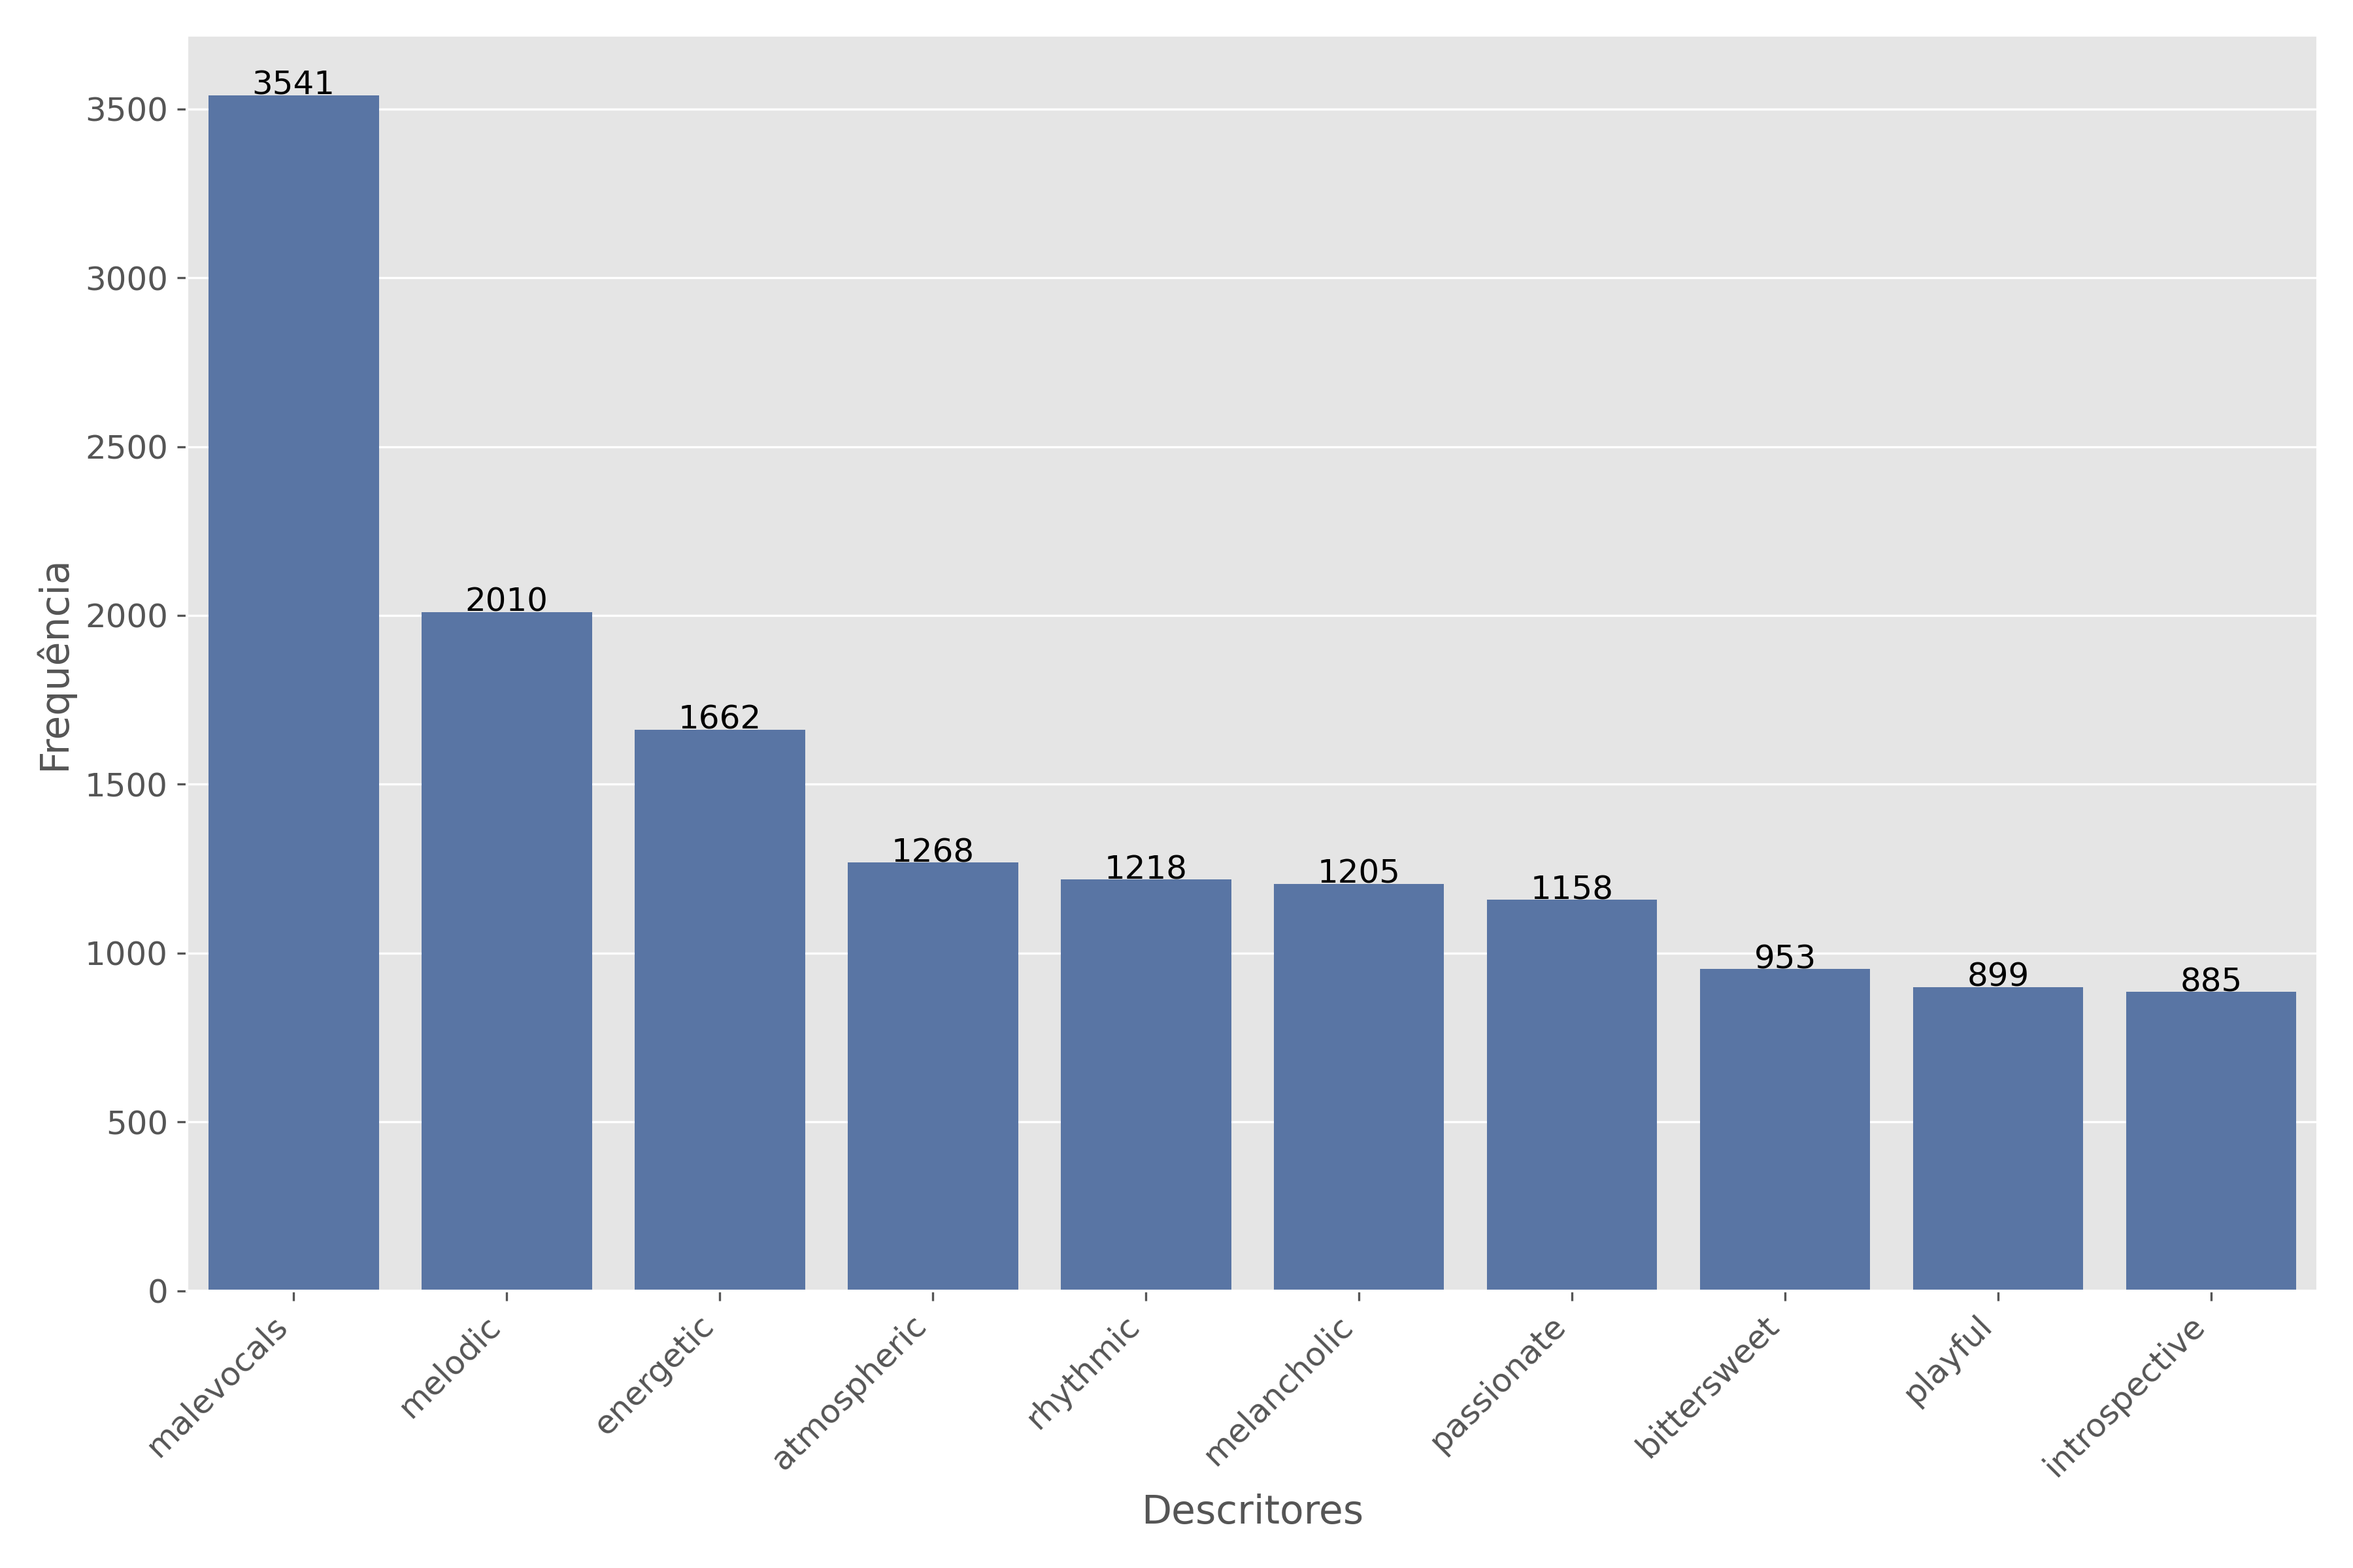
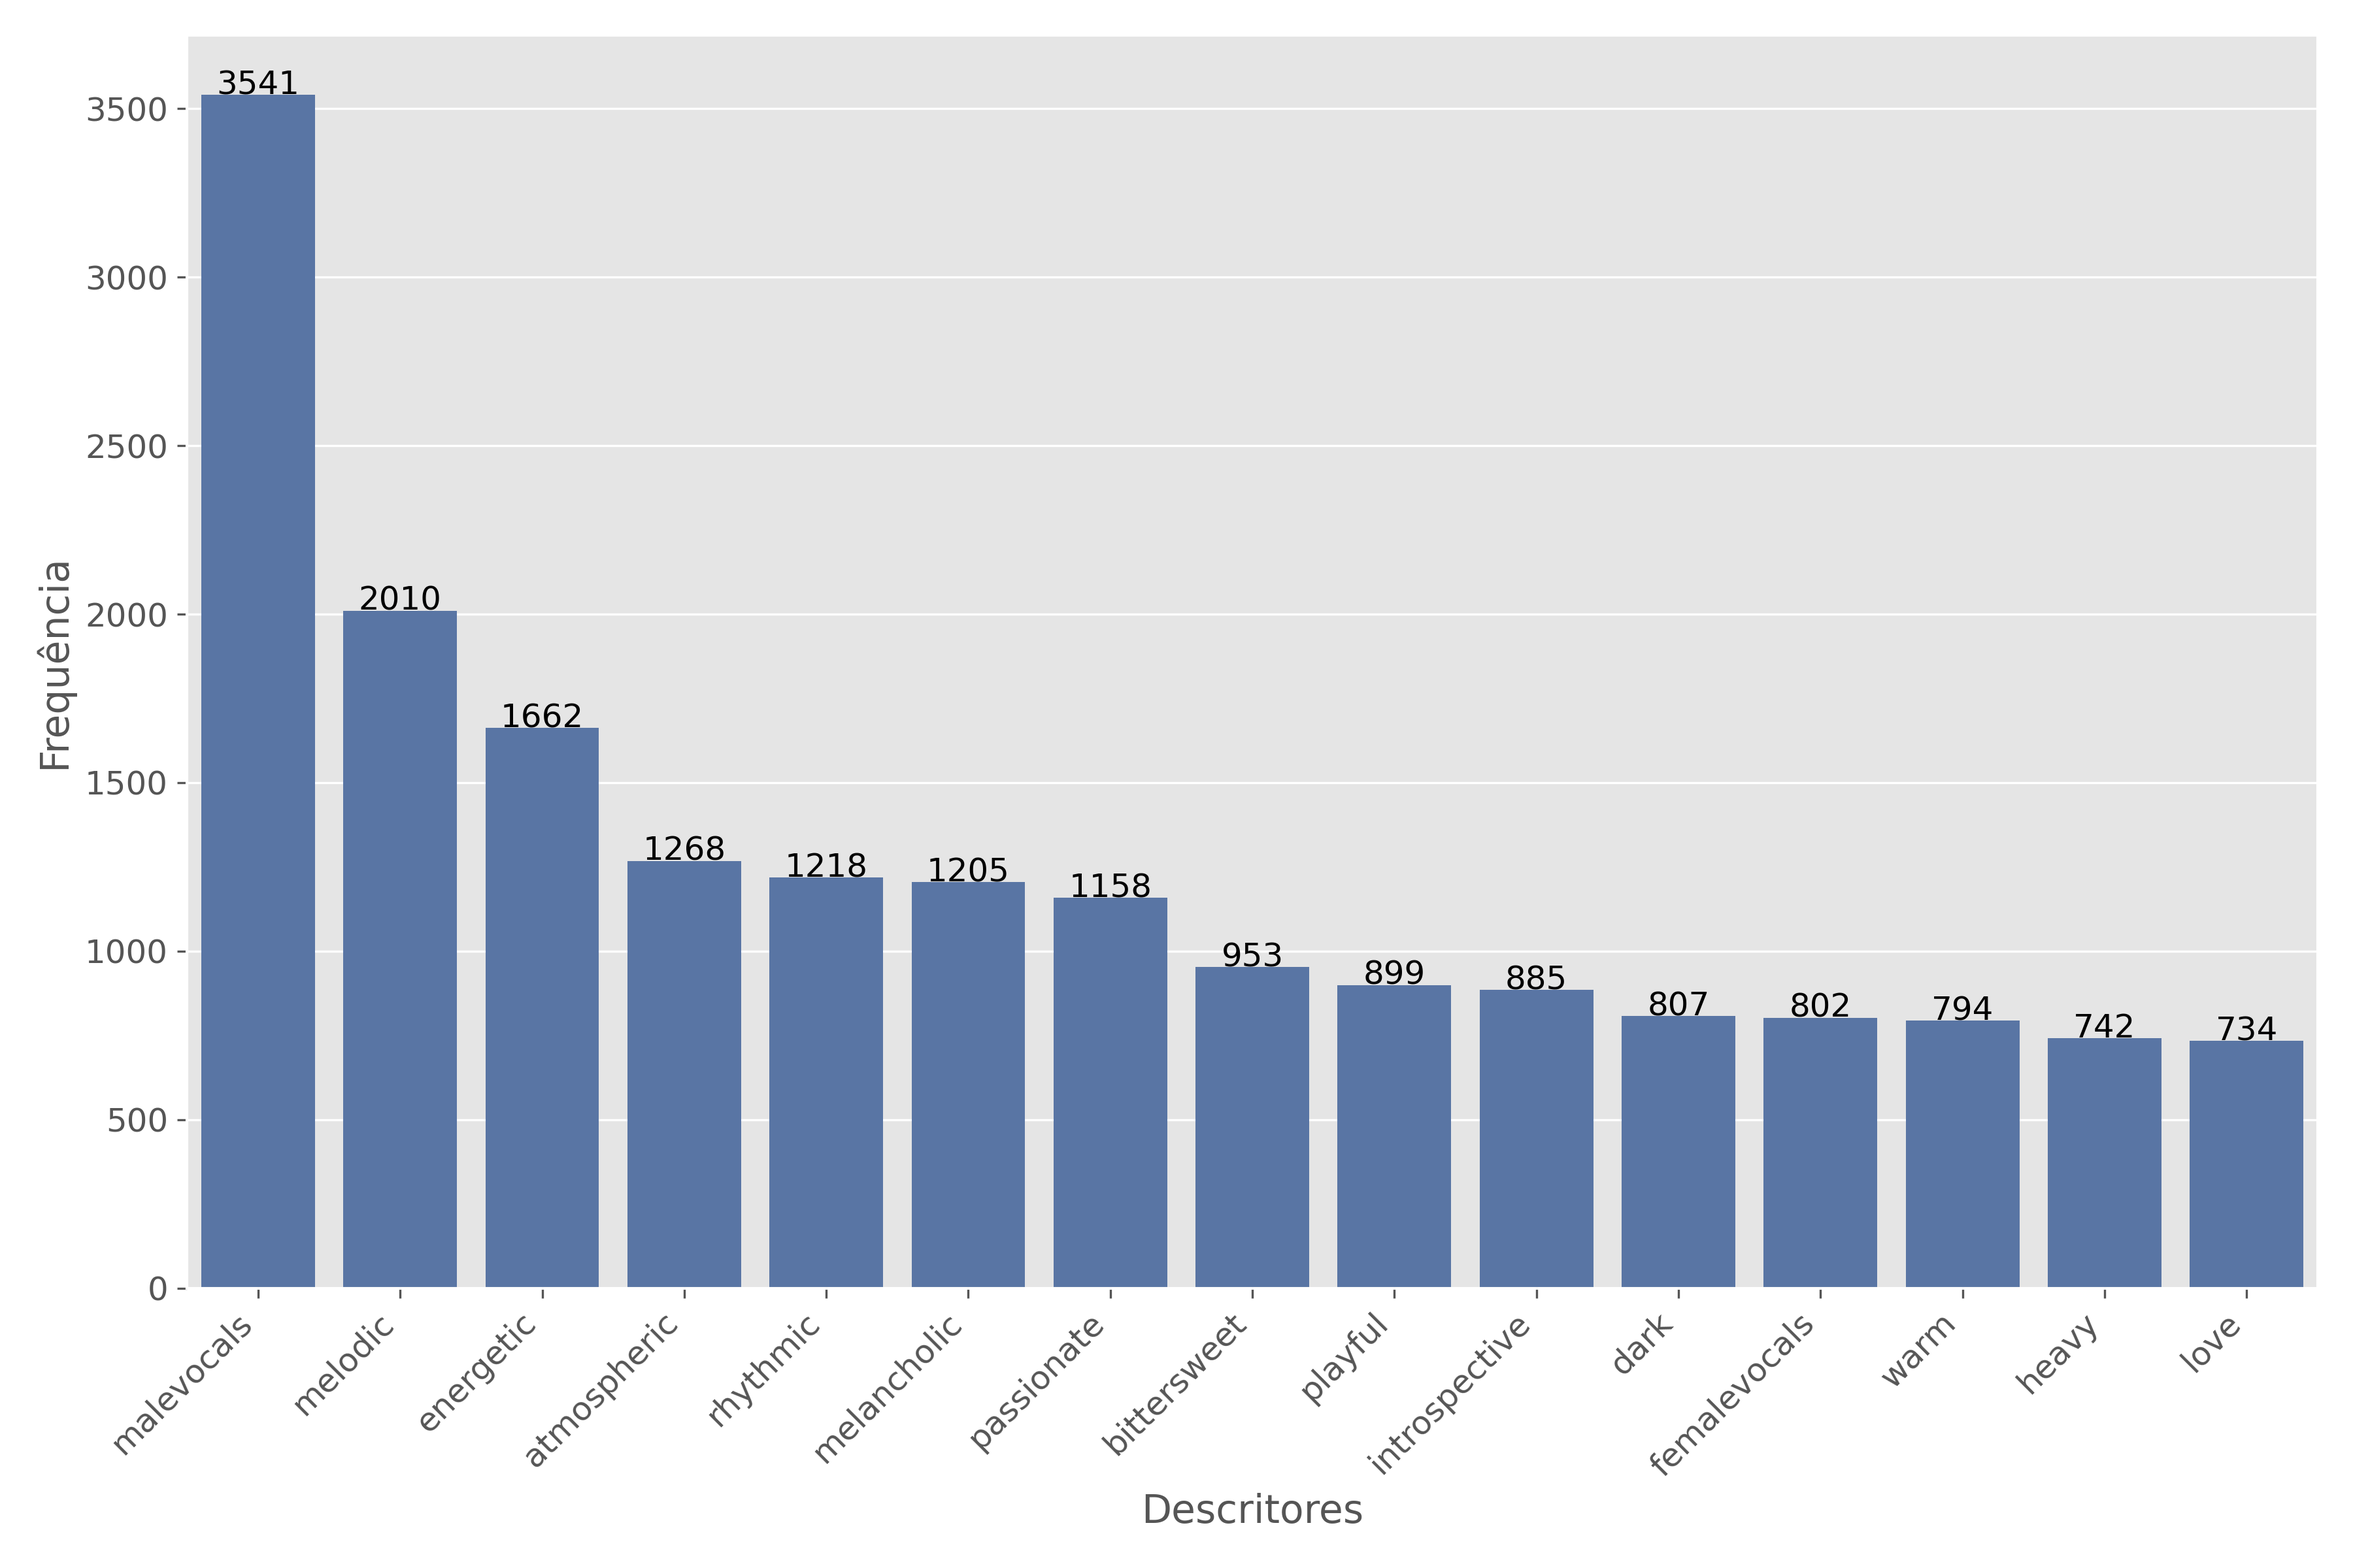
fix: fix blunder of script considering only the first 10 entries for the qualitative graphs (-900 aura)

diff --git a/atividade_1/src/variables_graphs.py b/atividade_1/src/variables_graphs.py
@@ -26,11 +26,12 @@ def plot_qualitative_graph(filename: str):
     df = pd.read_csv(f"outputs/{filename}_table.csv")
     
     # Limita a quantidade de entradas para melhor visualização
-    if len(df) > 10:
-        df = df.iloc[:10].copy()  # Copia apenas as 10 primeiras linhas
+    if len(df) > 15:
+        df = df.iloc[:15].copy()  # Copia apenas as 10 primeiras linhas
     
     plt.figure(figsize=(12, 8))
     
+    df["Frequência"].max()
     # Gráfico de barras
     ax = sns.barplot(x=filename, y="Frequência", data=df)
     plt.xlabel(filename)
@@ -39,7 +40,7 @@ def plot_qualitative_graph(filename: str):
     
     # Adiciona os valores sobre as barras
     for i, v in enumerate(df["Frequência"]):
-        ax.text(i, v + 5, str(v), ha='center')
+        ax.text(i, v + 2, str(v), ha='center')
     
     # Salva o gráfico
     plt.savefig(f"outputs/{filename}_grafico.png", dpi=300)
